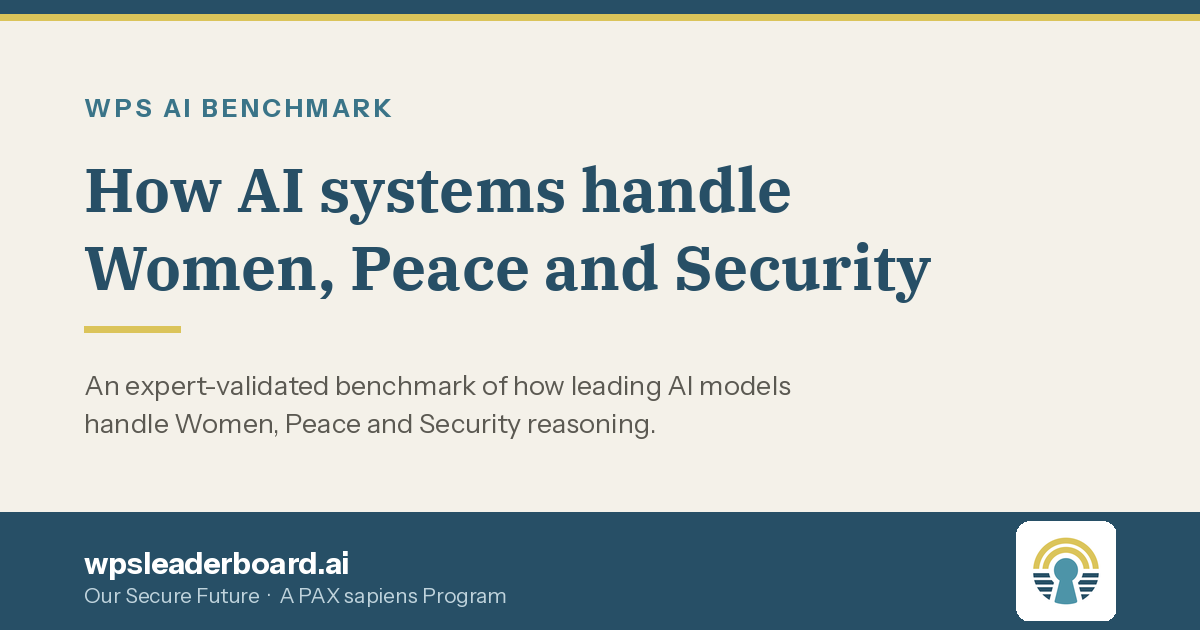
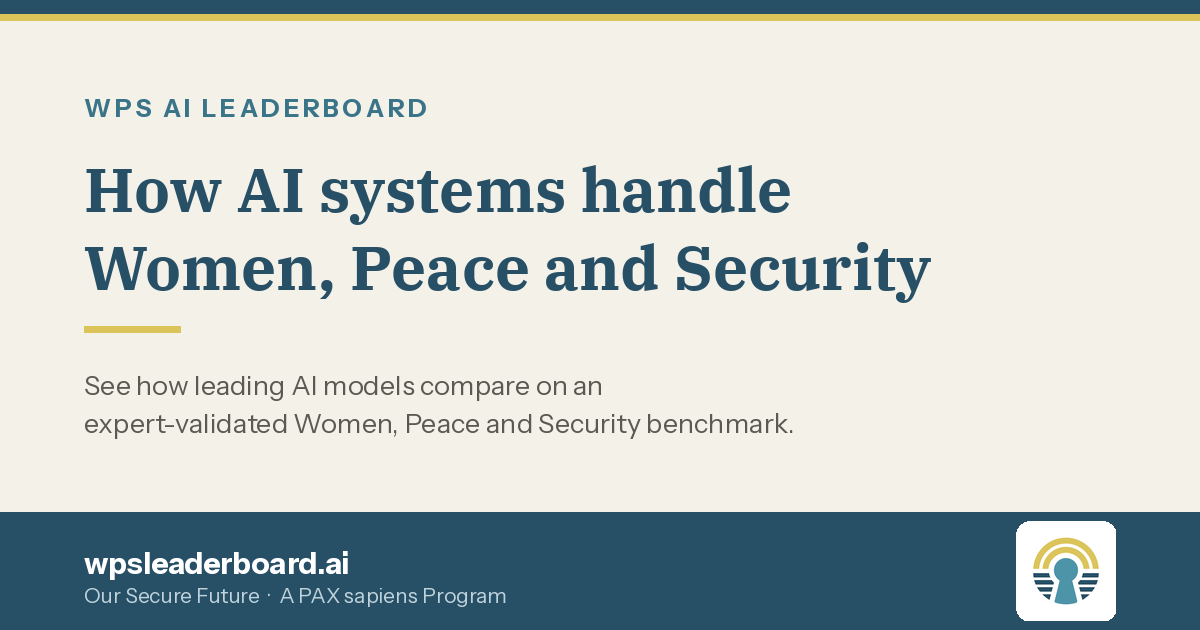
Update image alt text to 'WPS AI Leaderboard'
Replace og:image:alt and twitter:image:alt copy from “WPS AI Benchmark” to “WPS AI Leaderboard” across site meta tags (index, 404, about, benchmark, contact, media, methodology, our-agent). Also replace assets/og-card.png with an updated image. This aligns metadata and social cards with the Leaderboard branding.

Changed region(s): [[0.0617, 0.6635, 0.6783, 0.6937], [0.0617, 0.6032, 0.6783, 0.6333], [0.1542, 0.1508, 0.37, 0.2111]]

diff --git a/index.html b/index.html
@@ -19,14 +19,14 @@
 <meta property="og:image:type" content="image/png">
 <meta property="og:image:width" content="1200">
 <meta property="og:image:height" content="630">
-<meta property="og:image:alt" content="WPS AI Benchmark — How AI systems handle Women, Peace and Security">
+<meta property="og:image:alt" content="WPS AI Leaderboard — How AI systems handle Women, Peace and Security">
 <meta property="og:locale" content="en_US">
 <meta name="twitter:card" content="summary_large_image">
 <meta name="twitter:site" content="@OurSecureFuture">
 <meta name="twitter:title" content="WPS AI Leaderboard — How AI systems handle Women, Peace and Security">
 <meta name="twitter:description" content="See how leading AI models compare on an expert-validated Women, Peace and Security benchmark, scored against an 11-criterion rubric grounded in UNSCR 1325.">
 <meta name="twitter:image" content="https://wpsleaderboard.ai/assets/og-card.png">
-<meta name="twitter:image:alt" content="WPS AI Benchmark — How AI systems handle Women, Peace and Security">
+<meta name="twitter:image:alt" content="WPS AI Leaderboard — How AI systems handle Women, Peace and Security">
 <script type="application/ld+json">
 {
   "@context": "https://schema.org",

diff --git a/benchmark.html b/benchmark.html
@@ -19,14 +19,14 @@
 <meta property="og:image:type" content="image/png">
 <meta property="og:image:width" content="1200">
 <meta property="og:image:height" content="630">
-<meta property="og:image:alt" content="WPS AI Benchmark — How AI systems handle Women, Peace and Security">
+<meta property="og:image:alt" content="WPS AI Leaderboard — How AI systems handle Women, Peace and Security">
 <meta property="og:locale" content="en_US">
 <meta name="twitter:card" content="summary_large_image">
 <meta name="twitter:site" content="@OurSecureFuture">
 <meta name="twitter:title" content="The Benchmark — WPS AI Leaderboard">
 <meta name="twitter:description" content="Why Women, Peace and Security matters for AI systems used in real operations, and how the benchmark is structured — from UNSCR 1325 to NATO&#x27;s 2024 WPS Policy.">
 <meta name="twitter:image" content="https://wpsleaderboard.ai/assets/og-card.png">
-<meta name="twitter:image:alt" content="WPS AI Benchmark — How AI systems handle Women, Peace and Security">
+<meta name="twitter:image:alt" content="WPS AI Leaderboard — How AI systems handle Women, Peace and Security">
 <script type="application/ld+json">
 {
   "@context": "https://schema.org",

diff --git a/404.html b/404.html
@@ -28,14 +28,14 @@ body{margin:0;background:var(--white);} a{color:var(--osf-navy);} a:hover{color:
 <meta property="og:image:type" content="image/png">
 <meta property="og:image:width" content="1200">
 <meta property="og:image:height" content="630">
-<meta property="og:image:alt" content="WPS AI Benchmark — How AI systems handle Women, Peace and Security">
+<meta property="og:image:alt" content="WPS AI Leaderboard — How AI systems handle Women, Peace and Security">
 <meta property="og:locale" content="en_US">
 <meta name="twitter:card" content="summary_large_image">
 <meta name="twitter:site" content="@OurSecureFuture">
 <meta name="twitter:title" content="404 — WPS AI Leaderboard">
 <meta name="twitter:description" content="That page could not be found. Browse the WPS AI Leaderboard, benchmark, and methodology.">
 <meta name="twitter:image" content="https://wpsleaderboard.ai/assets/og-card.png">
-<meta name="twitter:image:alt" content="WPS AI Benchmark — How AI systems handle Women, Peace and Security">
+<meta name="twitter:image:alt" content="WPS AI Leaderboard — How AI systems handle Women, Peace and Security">
 <!-- SEO:END -->
 </head>
 <body>

diff --git a/our-agent.html b/our-agent.html
@@ -19,14 +19,14 @@
 <meta property="og:image:type" content="image/png">
 <meta property="og:image:width" content="1200">
 <meta property="og:image:height" content="630">
-<meta property="og:image:alt" content="WPS AI Benchmark — How AI systems handle Women, Peace and Security">
+<meta property="og:image:alt" content="WPS AI Leaderboard — How AI systems handle Women, Peace and Security">
 <meta property="og:locale" content="en_US">
 <meta name="twitter:card" content="summary_large_image">
 <meta name="twitter:site" content="@OurSecureFuture">
 <meta name="twitter:title" content="Our Agent — WPS AI Leaderboard">
 <meta name="twitter:description" content="The WPS AI Agent — a purpose-built system evaluated on this benchmark as a reference point for what a system built specifically for WPS analysis can achieve.">
 <meta name="twitter:image" content="https://wpsleaderboard.ai/assets/og-card.png">
-<meta name="twitter:image:alt" content="WPS AI Benchmark — How AI systems handle Women, Peace and Security">
+<meta name="twitter:image:alt" content="WPS AI Leaderboard — How AI systems handle Women, Peace and Security">
 <!-- SEO:END -->
 </head>
 <body>

diff --git a/about.html b/about.html
@@ -19,14 +19,14 @@
 <meta property="og:image:type" content="image/png">
 <meta property="og:image:width" content="1200">
 <meta property="og:image:height" content="630">
-<meta property="og:image:alt" content="WPS AI Benchmark — How AI systems handle Women, Peace and Security">
+<meta property="og:image:alt" content="WPS AI Leaderboard — How AI systems handle Women, Peace and Security">
 <meta property="og:locale" content="en_US">
 <meta name="twitter:card" content="summary_large_image">
 <meta name="twitter:site" content="@OurSecureFuture">
 <meta name="twitter:title" content="About — WPS AI Leaderboard">
 <meta name="twitter:description" content="The WPS AI Leaderboard is a project of Our Secure Future, a PAX sapiens program, built to measure whether AI systems handle Women, Peace and Security competently.">
 <meta name="twitter:image" content="https://wpsleaderboard.ai/assets/og-card.png">
-<meta name="twitter:image:alt" content="WPS AI Benchmark — How AI systems handle Women, Peace and Security">
+<meta name="twitter:image:alt" content="WPS AI Leaderboard — How AI systems handle Women, Peace and Security">
 <!-- SEO:END -->
 </head>
 <body>

diff --git a/contact.html b/contact.html
@@ -19,14 +19,14 @@
 <meta property="og:image:type" content="image/png">
 <meta property="og:image:width" content="1200">
 <meta property="og:image:height" content="630">
-<meta property="og:image:alt" content="WPS AI Benchmark — How AI systems handle Women, Peace and Security">
+<meta property="og:image:alt" content="WPS AI Leaderboard — How AI systems handle Women, Peace and Security">
 <meta property="og:locale" content="en_US">
 <meta name="twitter:card" content="summary_large_image">
 <meta name="twitter:site" content="@OurSecureFuture">
 <meta name="twitter:title" content="Contact — WPS AI Leaderboard">
 <meta name="twitter:description" content="Get in touch about consulting, custom evaluation, tailored datasets, or a system built for your organization&#x27;s own Women, Peace and Security needs.">
 <meta name="twitter:image" content="https://wpsleaderboard.ai/assets/og-card.png">
-<meta name="twitter:image:alt" content="WPS AI Benchmark — How AI systems handle Women, Peace and Security">
+<meta name="twitter:image:alt" content="WPS AI Leaderboard — How AI systems handle Women, Peace and Security">
 <!-- SEO:END -->
 </head>
 <body>

diff --git a/methodology.html b/methodology.html
@@ -19,14 +19,14 @@
 <meta property="og:image:type" content="image/png">
 <meta property="og:image:width" content="1200">
 <meta property="og:image:height" content="630">
-<meta property="og:image:alt" content="WPS AI Benchmark — How AI systems handle Women, Peace and Security">
+<meta property="og:image:alt" content="WPS AI Leaderboard — How AI systems handle Women, Peace and Security">
 <meta property="og:locale" content="en_US">
 <meta name="twitter:card" content="summary_large_image">
 <meta name="twitter:site" content="@OurSecureFuture">
 <meta name="twitter:title" content="Methodology — WPS AI Leaderboard">
 <meta name="twitter:description" content="How the benchmark is built, validated, and scored: scenario construction, the judging protocol, aggregation rules, and inter-judge reliability.">
 <meta name="twitter:image" content="https://wpsleaderboard.ai/assets/og-card.png">
-<meta name="twitter:image:alt" content="WPS AI Benchmark — How AI systems handle Women, Peace and Security">
+<meta name="twitter:image:alt" content="WPS AI Leaderboard — How AI systems handle Women, Peace and Security">
 <!-- SEO:END -->
 </head>
 <body>

diff --git a/media.html b/media.html
@@ -19,14 +19,14 @@
 <meta property="og:image:type" content="image/png">
 <meta property="og:image:width" content="1200">
 <meta property="og:image:height" content="630">
-<meta property="og:image:alt" content="WPS AI Benchmark — How AI systems handle Women, Peace and Security">
+<meta property="og:image:alt" content="WPS AI Leaderboard — How AI systems handle Women, Peace and Security">
 <meta property="og:locale" content="en_US">
 <meta name="twitter:card" content="summary_large_image">
 <meta name="twitter:site" content="@OurSecureFuture">
 <meta name="twitter:title" content="Media — WPS AI Leaderboard">
 <meta name="twitter:description" content="Writing on the WPS competence gap, AI procurement standards, and the case for a WPS-specific benchmark, from the Our Secure Future team.">
 <meta name="twitter:image" content="https://wpsleaderboard.ai/assets/og-card.png">
-<meta name="twitter:image:alt" content="WPS AI Benchmark — How AI systems handle Women, Peace and Security">
+<meta name="twitter:image:alt" content="WPS AI Leaderboard — How AI systems handle Women, Peace and Security">
 <!-- SEO:END -->
 </head>
 <body>
